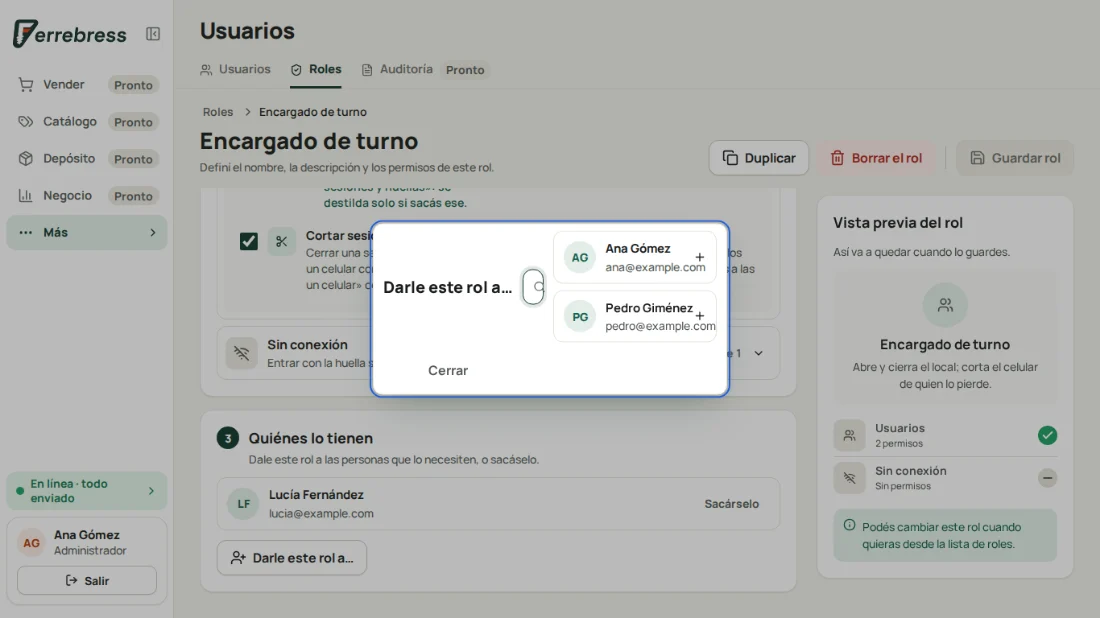
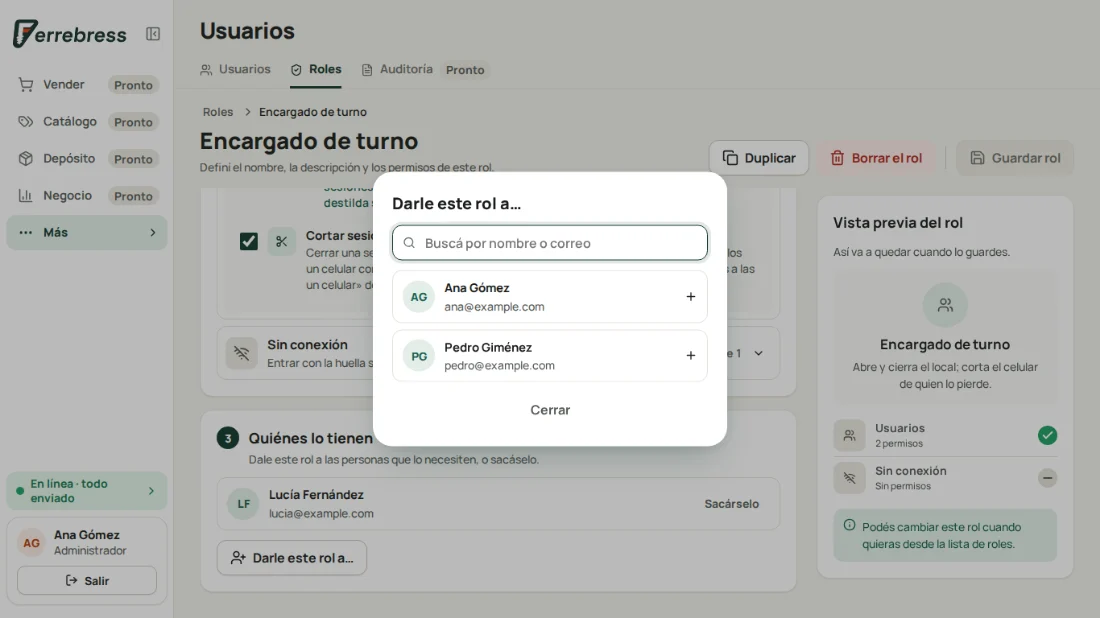
Roles: «Darle este rol a…» vuelve a verse en columna (02b)
Pedido de Carlos: no se entendía. Su estilo se llamaba igual que el de
cada rol en la tarjeta de una persona (role-pick), que lo pisaba y
ponía el título, el buscador y las personas en fila. Pasa a role-give.

Claude-Session: https://claude.ai/code/session_01BmbhiYJAfQvWshUgYzn7JL

Changed region(s): [[0.34, 0.2767, 0.68, 0.5841], [0.34, 0.5534, 0.68, 0.7379]]

diff --git a/src/app/modules/users/roles/screens/role/GivePicker.tsx b/src/app/modules/users/roles/screens/role/GivePicker.tsx
@@ -20,7 +20,7 @@ export function GivePicker({ candidates, pick, close }: Props) {
     plain(`${one.displayName} ${one.email}`).includes(wanted),
   );
   return (
-    <Dialog label={t.pick} className="role-pick">
+    <Dialog label={t.pick} className="role-give">
       <h2>{t.pick}</h2>
       <label class="roles-search" data-private="">
         <Icon name="search" size="small" />
@@ -34,12 +34,12 @@ export function GivePicker({ candidates, pick, close }: Props) {
         />
       </label>
       {shown.length === 0 && <p class="role-none">{t.pickNone}</p>}
-      <ul class="role-pick-list" data-private="">
+      <ul class="role-give-list" data-private="">
         {shown.map((one) => (
           <li key={one.id}>
             <button
               type="button"
-              class="role-pick-person"
+              class="role-give-person"
               onClick={() => pick(one.id)}
               data-mark=""
             >

diff --git a/src/app/modules/users/roles/screens/role/RoleSteps.css b/src/app/modules/users/roles/screens/role/RoleSteps.css
@@ -87,7 +87,7 @@
     list-style: none;
   }
   .role-holder,
-  .role-pick-person {
+  .role-give-person {
     display: grid;
     grid-template-columns: 40px minmax(0, 1fr) auto;
     gap: 4px var(--s3);
@@ -152,19 +152,19 @@
     justify-self: start;
   }
   .role-discard,
-  .role-pick {
+  .role-give {
     display: grid;
     gap: var(--s3);
     width: min(440px, calc(100vw - 32px));
     padding: var(--s6);
   }
   .role-discard h2,
-  .role-pick h2 {
+  .role-give h2 {
     margin: 0;
     font-size: 20px;
     font-weight: 800;
   }
-  .role-pick-list {
+  .role-give-list {
     display: grid;
     gap: var(--s2);
     max-height: 50vh;
@@ -173,7 +173,7 @@
     overflow: auto;
     list-style: none;
   }
-  .role-pick-person {
+  .role-give-person {
     width: 100%;
     color: var(--ink);
     font: inherit;

diff --git a/src/app/modules/users/roles/screens/role/RolePhone.css b/src/app/modules/users/roles/screens/role/RolePhone.css
@@ -94,7 +94,7 @@
     /* Los avisos suben desde abajo de borde a borde (maqueta): sin el ancho de la computadora, y
        los dos botones mitad y mitad. */
     .role-discard,
-    .role-pick {
+    .role-give {
       width: auto;
       padding: var(--s4) var(--s4) calc(var(--s5) + env(safe-area-inset-bottom));
     }
